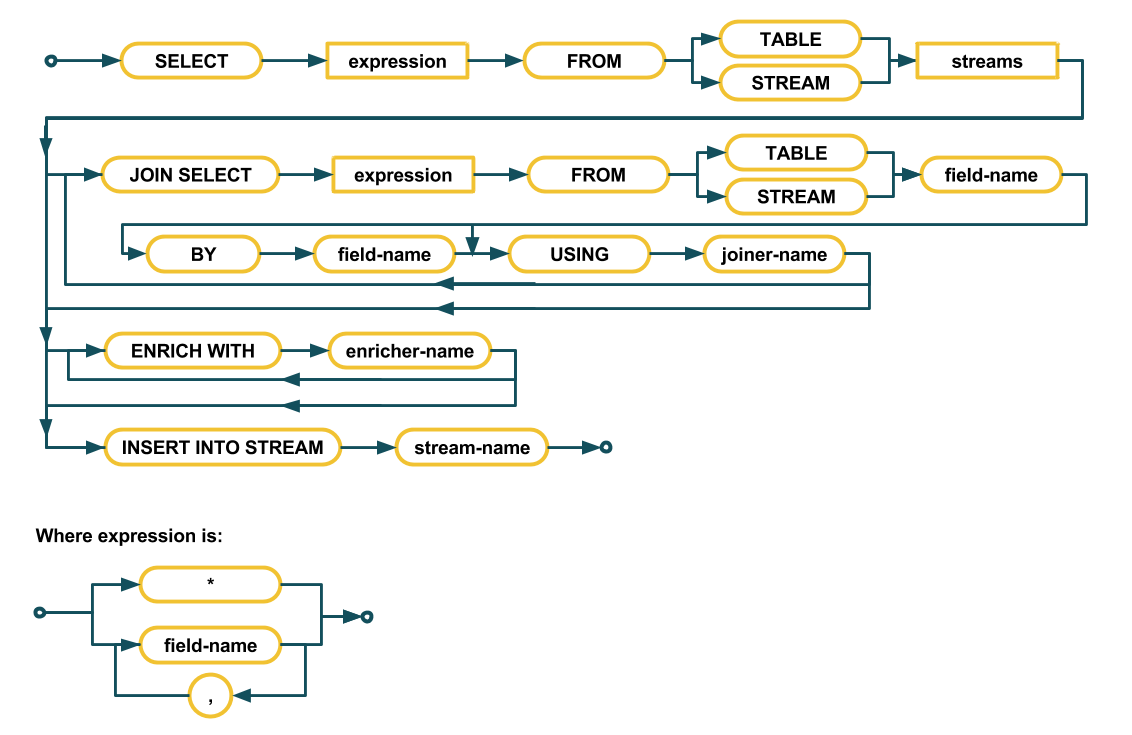
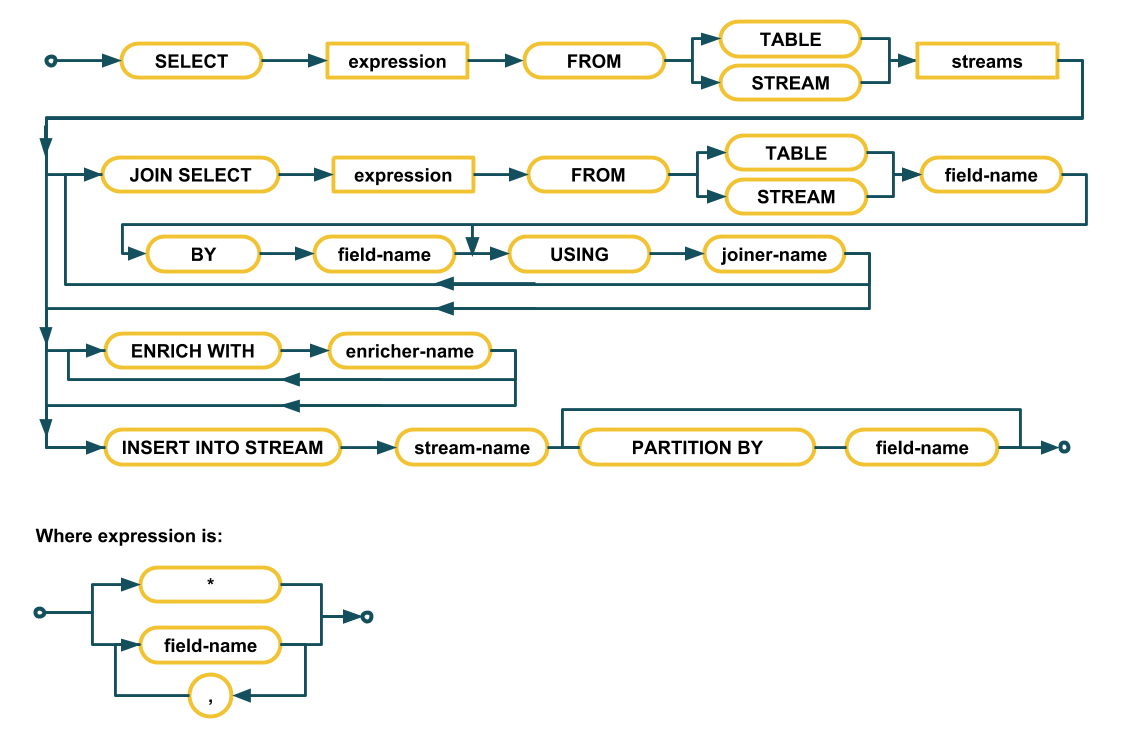
WIZZIE-2771 Add capability to partition output data with specific key (#12)

diff --git a/service/src/test/java/io/wizzie/enricher/integration/QueryWithOutputPartitionKeyIntegrationTest.java b/service/src/test/java/io/wizzie/enricher/integration/QueryWithOutputPartitionKeyIntegrationTest.java
@@ -1,0 +1,132 @@
+package io.wizzie.enricher.integration;
+
+import io.wizzie.bootstrapper.builder.Config;
+import io.wizzie.enricher.base.builder.config.ConfigProperties;
+import io.wizzie.enricher.builder.Builder;
+import io.wizzie.enricher.serializers.JsonDeserializer;
+import io.wizzie.enricher.serializers.JsonSerde;
+import io.wizzie.enricher.serializers.JsonSerializer;
+import org.apache.kafka.clients.consumer.ConsumerConfig;
+import org.apache.kafka.clients.producer.ProducerConfig;
+import org.apache.kafka.common.serialization.Serdes;
+import org.apache.kafka.common.serialization.StringDeserializer;
+import org.apache.kafka.streams.KeyValue;
+import org.apache.kafka.streams.StreamsConfig;
+import org.apache.kafka.streams.integration.utils.EmbeddedKafkaCluster;
+import org.apache.kafka.streams.integration.utils.IntegrationTestUtils;
+import org.junit.BeforeClass;
+import org.junit.ClassRule;
+import org.junit.Test;
+
+import java.util.*;
+
+import static org.apache.kafka.streams.StreamsConfig.APPLICATION_ID_CONFIG;
+import static org.junit.Assert.assertEquals;
+
+public class QueryWithOutputPartitionKeyIntegrationTest {
+    private final static int NUM_BROKERS = 1;
+
+    @ClassRule
+    public static EmbeddedKafkaCluster CLUSTER = new EmbeddedKafkaCluster(NUM_BROKERS);
+
+    private static final int REPLICATION_FACTOR = 1;
+
+    private static final String INPUT_STREAM_1_TOPIC = "stream1";
+    private static final String INPUT_STREAM_2_TOPIC = "stream2";
+
+    private static final String OUTPUT_TOPIC = "output";
+
+    private static final String appId = UUID.randomUUID().toString();
+
+    private static Properties producerConfig = new Properties();
+
+    private static Properties consumerConfig = new Properties();
+
+    @BeforeClass
+    public static void startKafkaCluster() throws Exception {
+        CLUSTER.createTopic(INPUT_STREAM_1_TOPIC, 2, REPLICATION_FACTOR);
+        CLUSTER.createTopic(INPUT_STREAM_2_TOPIC, 2, REPLICATION_FACTOR);
+
+        CLUSTER.createTopic(OUTPUT_TOPIC, 2, REPLICATION_FACTOR);
+
+        producerConfig.put(ProducerConfig.BOOTSTRAP_SERVERS_CONFIG, CLUSTER.bootstrapServers());
+        producerConfig.put(ProducerConfig.ACKS_CONFIG, "all");
+        producerConfig.put(ProducerConfig.RETRIES_CONFIG, 0);
+        producerConfig.put(ProducerConfig.KEY_SERIALIZER_CLASS_CONFIG, Serdes.String().serializer().getClass());
+        producerConfig.put(ProducerConfig.VALUE_SERIALIZER_CLASS_CONFIG, JsonSerializer.class);
+
+
+        consumerConfig.put(ConsumerConfig.BOOTSTRAP_SERVERS_CONFIG, CLUSTER.bootstrapServers());
+        consumerConfig.put(ConsumerConfig.GROUP_ID_CONFIG, "test-consumer");
+        consumerConfig.put(ConsumerConfig.KEY_DESERIALIZER_CLASS_CONFIG, StringDeserializer.class);
+        consumerConfig.put(ConsumerConfig.VALUE_DESERIALIZER_CLASS_CONFIG, JsonDeserializer.class);
+        consumerConfig.put(ConsumerConfig.AUTO_OFFSET_RESET_CONFIG, "earliest");
+    }
+
+    @Test
+    public void queryWithOutputPartitionKeyShouldWork() throws Exception {
+        Map<String, Object> streamsConfiguration = new HashMap<>();
+
+        streamsConfiguration.put(APPLICATION_ID_CONFIG, appId);
+        streamsConfiguration.put(StreamsConfig.BOOTSTRAP_SERVERS_CONFIG, CLUSTER.bootstrapServers());
+        streamsConfiguration.put(StreamsConfig.DEFAULT_KEY_SERDE_CLASS_CONFIG, Serdes.String().getClass().getName());
+        streamsConfiguration.put(StreamsConfig.DEFAULT_VALUE_SERDE_CLASS_CONFIG, JsonSerde.class.getName());
+        streamsConfiguration.put(ConsumerConfig.AUTO_OFFSET_RESET_CONFIG, "earliest");
+        streamsConfiguration.put(StreamsConfig.NUM_STREAM_THREADS_CONFIG, 1);
+
+        producerConfig.put(ProducerConfig.VALUE_SERIALIZER_CLASS_CONFIG, JsonSerializer.class);
+        consumerConfig.put(ConsumerConfig.VALUE_DESERIALIZER_CLASS_CONFIG, JsonDeserializer.class);
+
+        Config configuration = new Config(streamsConfiguration);
+        configuration.put("file.bootstraper.path", Thread.currentThread().getContextClassLoader().getResource("query-with-output-partition-key.json").getFile());
+        configuration.put(ConfigProperties.BOOTSTRAPER_CLASSNAME, "io.wizzie.bootstrapper.bootstrappers.impl.FileBootstrapper");
+
+        Builder builder = new Builder(configuration);
+
+        Map<String, Object> message1 = new HashMap<>();
+        message1.put("a", "VALUE_A");
+        message1.put("b", "VALUE_B");
+        message1.put("c", "VALUE_C");
+
+        KeyValue<String, Map<String, Object>> kvStream1 = new KeyValue<>("KEY", message1);
+
+        Map<String, Object> message2 = new HashMap<>();
+        message2.put("u", "VALUE_U");
+        message2.put("v", "VALUE_V");
+        message2.put("w", "VALUE_W");
+
+        KeyValue<String, Map<String, Object>> kvStream2 = new KeyValue<>("VALUE_B", message2);
+
+
+        IntegrationTestUtils.produceKeyValuesSynchronously(INPUT_STREAM_2_TOPIC, Collections.singletonList(kvStream2), producerConfig, CLUSTER.time);
+
+        List<KeyValue<String, Map>> receivedMessage = IntegrationTestUtils.waitUntilMinKeyValueRecordsReceived(consumerConfig, INPUT_STREAM_2_TOPIC, 1);
+
+        assertEquals(Collections.singletonList(kvStream2), receivedMessage);
+
+
+        IntegrationTestUtils.produceKeyValuesSynchronously(INPUT_STREAM_1_TOPIC, Collections.singletonList(kvStream1), producerConfig, CLUSTER.time);
+
+        receivedMessage = IntegrationTestUtils.waitUntilMinKeyValueRecordsReceived(consumerConfig, INPUT_STREAM_1_TOPIC, 1);
+
+        assertEquals(Collections.singletonList(kvStream1), receivedMessage);
+
+
+        Map<String, Object> expectedData1 = new HashMap<>();
+        expectedData1.put("a", "VALUE_A");
+        expectedData1.put("b", "VALUE_B");
+        expectedData1.put("c", "VALUE_C");
+        expectedData1.put("u", "VALUE_U");
+        expectedData1.put("v", "VALUE_V");
+
+        KeyValue<String, Map<String, Object>> expectedKvMessage1 = new KeyValue<>("VALUE_C", expectedData1);
+
+
+        receivedMessage = IntegrationTestUtils.waitUntilMinKeyValueRecordsReceived(consumerConfig, OUTPUT_TOPIC, 1);
+
+        assertEquals(Collections.singletonList(expectedKvMessage1), receivedMessage);
+
+        builder.close();
+    }
+
+}

diff --git a/query-compiler/src/test/java/io/wizzie/enricher/query/EnricherCompilerUnitTest.java b/query-compiler/src/test/java/io/wizzie/enricher/query/EnricherCompilerUnitTest.java
@@ -71,7 +71,6 @@ public class EnricherCompilerUnitTest {
         assertNotNull(insertObject);
         assertEquals("output", insertObject.getName());
         assertTrue(insertObject.isTable());
-
     }
 
     @Test
@@ -171,7 +170,6 @@ public class EnricherCompilerUnitTest {
         assertNotNull(insertObject);
         assertEquals("output", insertObject.getName());
         assertTrue(insertObject.isTable());
-
     }
 
     @Test
@@ -251,7 +249,6 @@ public class EnricherCompilerUnitTest {
         assertNotNull(insertObject);
         assertEquals("output", insertObject.getName());
         assertTrue(insertObject.isTable());
-
     }
 
     @Test
@@ -324,7 +321,6 @@ public class EnricherCompilerUnitTest {
         assertNotNull(insertObject);
         assertEquals("my-output-stream", insertObject.getName());
         assertTrue(insertObject.isTable());
-
     }
 
     @Test
@@ -410,5 +406,94 @@ public class EnricherCompilerUnitTest {
 
         Query query = EnricherCompiler.parse(stringQuery);
 
+    }
+
+    @Test(expected = EnricherParserException.class)
+    public void NotShouldParseQueryWithIncompletedPartitionByClause() {
+
+        String stringQuery = "SELECT * FROM STREAM * " +
+                "JOIN SELECT a,b FROM STREAM * USING jClass " +
+                "ENRICH WITH pkg2classA " +
+                "INSERT INTO TABLE my_output_stream PARTITION BY";
+
+        Query query = EnricherCompiler.parse(stringQuery);
+
+    }
+
+    @Test
+    public void ShouldParseQueryWithOutputPartitionKey() {
+        String stringQuery = "SELECT * FROM STREAM my_input_stream " +
+                "JOIN SELECT a,b FROM STREAM my_input_stream_2 USING jClass " +
+                "ENRICH WITH pkg2classA " +
+                "INSERT INTO TABLE my_output_stream PARTITION BY myKey";
+
+
+        Query query = EnricherCompiler.parse(stringQuery);
+
+        assertNotNull(query);
+
+        // Select tests
+        Select selectObject = query.getSelect();
+
+        assertNotNull(selectObject);
+
+        List<String> selectDimensions = selectObject.getDimensions();
+
+        assertNotNull(selectDimensions);
+        assertEquals(1, selectDimensions.size());
+        assertEquals(Collections.singletonList("*"), selectDimensions);
+
+        List<Stream> selectStreams = selectObject.getStreams();
+
+        assertNotNull(selectStreams);
+        assertEquals(1, selectStreams.size());
+        assertEquals("my_input_stream", selectStreams.get(0).getName());
+        assertFalse(selectStreams.get(0).isTable());
+
+        // Joins tests
+        List<Join> joins = query.getJoins();
+
+        assertEquals(1, joins.size());
+
+        List<String> joinDimensions = joins.get(0).getDimensions();
+        assertNotNull(joinDimensions);
+        assertEquals(2, joinDimensions.size());
+        assertEquals(Arrays.asList("a", "b"), joinDimensions);
+
+        Stream joinStream = joins.get(0).getStream();
+
+        assertNotNull(joinStream);
+        assertEquals("my_input_stream_2", joinStream.getName());
+        assertFalse(joinStream.isTable());
+
+        String joinerClass = joins.get(0).getJoinerName();
+
+        assertNotNull(joinerClass);
+        assertEquals("jClass", joinerClass);
+
+        // Enrich with tests
+        List<String> enrichWiths = query.getEnrichWiths();
+
+        assertNotNull(enrichWiths);
+
+        assertEquals(1, enrichWiths.size());
+
+        String enrichWith1 = enrichWiths.get(0);
+
+        assertNotNull(enrichWith1);
+
+        assertEquals("pkg2classA", enrichWith1);
+
+        // Insert tests
+        Stream insertObject = query.getInsert();
+
+        assertNotNull(insertObject);
+        assertEquals("my_output_stream", insertObject.getName());
+        assertTrue(insertObject.isTable());
+
+        String outputPartitionKey = query.getOutputPartitionKey();
+
+        assertNotNull(outputPartitionKey);
+        assertEquals("myKey", outputPartitionKey);
     }
 }

diff --git a/query-compiler/src/main/java/io/wizzie/enricher/query/antlr4/Query.java b/query-compiler/src/main/java/io/wizzie/enricher/query/antlr4/Query.java
@@ -4,6 +4,8 @@ import java.util.Collections;
 import java.util.List;
 
 import static com.cookingfox.guava_preconditions.Preconditions.checkNotNull;
+import static io.wizzie.enricher.query.utils.Constants.__KEY;
+
 
 public class Query {
 
@@ -11,6 +13,7 @@ public class Query {
     List<Join> joins;
     List<String> enrichWiths;
     Stream insertTopic;
+    String outputPartitionKey;
 
     public Query(Select select, Stream insertTopic) {
         this(select, insertTopic, Collections.EMPTY_LIST);
@@ -21,10 +24,15 @@ public class Query {
     }
 
     public Query(Select select, Stream insertTopic, List<Join> joins, List<String> enrichWiths) {
+        this(select, insertTopic, joins, enrichWiths, null);
+    }
+
+    public Query(Select select, Stream insertTopic, List<Join> joins, List<String> enrichWiths, String outputPartitionKey) {
         this.select = checkNotNull(select, "SELECT cannot be null");
         this.joins = checkNotNull(joins, "JOINS cannot be null");
         this.insertTopic = checkNotNull(insertTopic, "INSERT cannot be null");
         this.enrichWiths = checkNotNull(enrichWiths, "ENRICH WITH cannot be null");
+        this.outputPartitionKey = outputPartitionKey == null ? __KEY : outputPartitionKey;
     }
 
     public void setSelect(Select newSelect) {
@@ -53,6 +61,14 @@ public class Query {
 
     public Stream getInsert() {
         return insertTopic;
+    }
+
+    public void setOutputPartitionBy(String key) {
+        outputPartitionKey = key;
+    }
+
+    public String getOutputPartitionKey() {
+        return outputPartitionKey;
     }
 
     public void setEnrichWiths(List<String> enrichWiths) {

diff --git a/service/src/main/java/io/wizzie/enricher/builder/StreamBuilder.java b/service/src/main/java/io/wizzie/enricher/builder/StreamBuilder.java
@@ -20,6 +20,7 @@ import org.apache.kafka.streams.KeyValue;
 import org.apache.kafka.streams.StreamsBuilder;
 import org.apache.kafka.streams.kstream.KStream;
 import org.apache.kafka.streams.kstream.KTable;
+import org.apache.kafka.streams.kstream.internals.KStreamImpl;
 import org.slf4j.Logger;
 import org.slf4j.LoggerFactory;
 
@@ -92,8 +93,6 @@ public class StreamBuilder {
     }
 
     private void addStreams(PlanModel model, StreamsBuilder builder) {
-
-        Random random = new Random();
 
         model.getQueries().entrySet().forEach(entry -> {
             Select selectQuery = entry.getValue().getSelect();
@@ -281,8 +280,25 @@ public class StreamBuilder {
 
     private void addInserts(PlanModel model) {
         model.getQueries().entrySet().forEach(entry -> {
+
             Stream insert = entry.getValue().getInsert();
+            String outputPartitionKey = entry.getValue().getOutputPartitionKey();
+
             KStream<String, Map<String, Object>> stream = streams.get(entry.getKey());
+
+            if (!outputPartitionKey.equals(__KEY)) {
+                stream = stream.selectKey((key, value) -> {
+                    String newKey = key;
+
+                    Object keyValue = value.get(outputPartitionKey);
+
+                    if (keyValue != null) {
+                        newKey = keyValue.toString();
+                    }
+
+                    return newKey;
+                });
+            }
 
             String outputStream = insert.getName();
 

diff --git a/query-compiler/src/test/java/io/wizzie/enricher/query/EnricherQLUnitTest.java b/query-compiler/src/test/java/io/wizzie/enricher/query/EnricherQLUnitTest.java
@@ -96,4 +96,16 @@ public class EnricherQLUnitTest {
         assertEquals(query.replaceAll("\\s+", ""), parser.query().getText());
 
     }
+
+    @Test
+    public void PartitionOutputShouldWork() {
+        String query = "SELECT * FROM STREAM inpunt INSERT INTO TABLE output PARTITION BY myKey";
+
+        ANTLRInputStream inputStream = new ANTLRInputStream(query);
+        EnricherQLLexer lexer = new EnricherQLLexer(inputStream);
+        CommonTokenStream tokens = new CommonTokenStream(lexer);
+        EnricherQLParser parser = new EnricherQLParser(tokens);
+
+        assertEquals(query.replaceAll("\\s+", ""), parser.query().getText());
+    }
 }

diff --git a/query-compiler/src/main/java/io/wizzie/enricher/query/internal/EnricherQLBaseVisitorImpl.java b/query-compiler/src/main/java/io/wizzie/enricher/query/internal/EnricherQLBaseVisitorImpl.java
@@ -47,7 +47,13 @@ public class EnricherQLBaseVisitorImpl extends EnricherQLBaseVisitor {
 
         Stream output = new Stream(ctx.query_output().id().getText(), ctx.query_output().type().getText().matches("TABLE"));
 
-        return new Query(new Select(selectDimensions, selectInputStreams), output, joins, enrichWiths);
+        String outputPartitionKey = null;
+
+        if (ctx.query_output().partitionKey() != null) {
+            outputPartitionKey = ctx.query_output().partitionKey().getText();
+        }
+
+        return new Query(new Select(selectDimensions, selectInputStreams), output, joins, enrichWiths, outputPartitionKey);
     }
 
 }

diff --git a/docs/configuration/sql_syntax.md b/docs/configuration/sql_syntax.md
@@ -57,6 +57,10 @@ Where:
 
 An enricher can be any data source that works with Json messages.
 
+### Output Stream
+
+The `INSERT INTO` clause allows us to define what stream to use as the output stream, this clause can be complemented with `PARTITION BY` clause that allows us repartition the output stream by a field. If we omit the `PARTITION BY` clause, the enricher will use the current partition key of the input stream.
+
 ## Examples
 
 ### Simple field extraction
